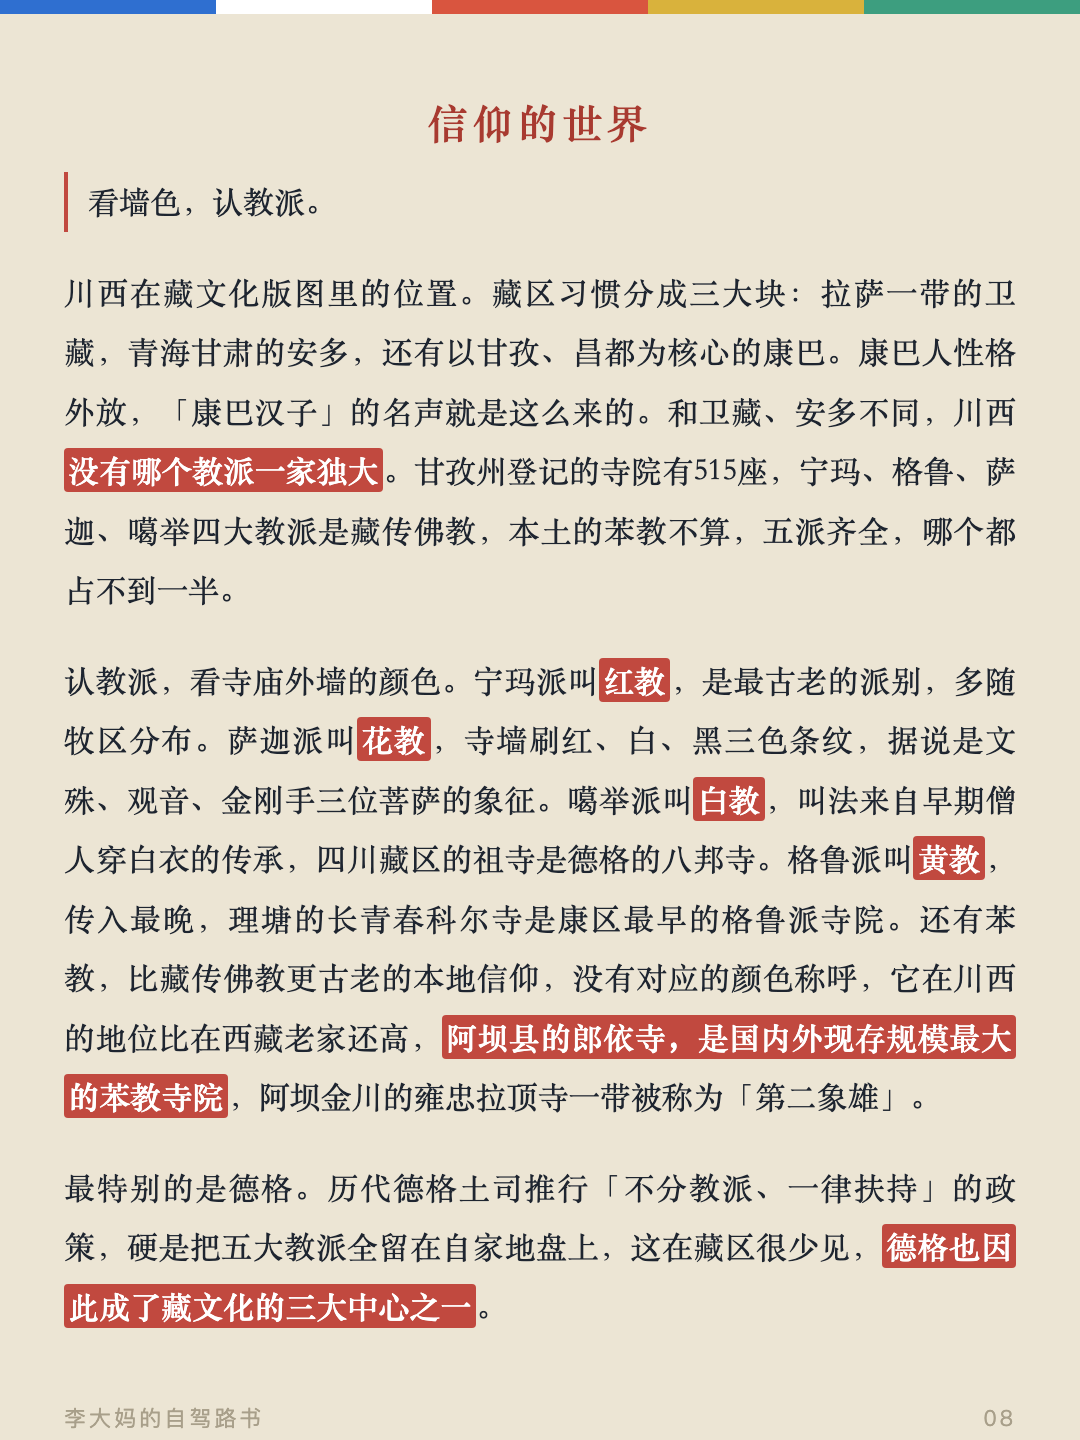
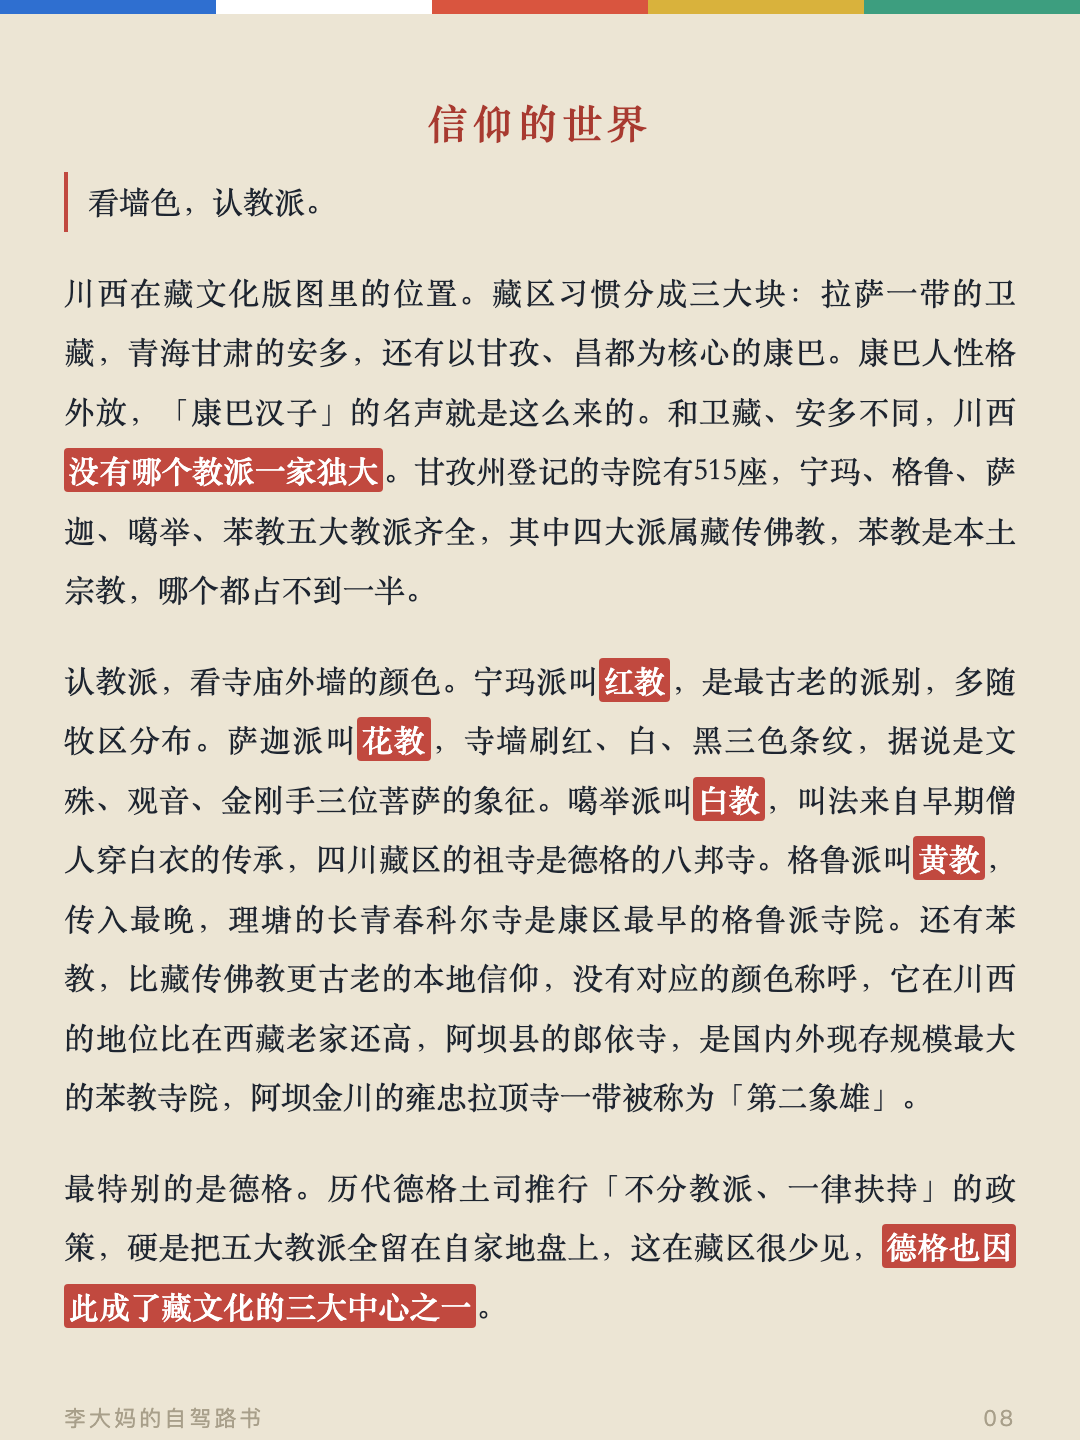
苯教段落措辞改顺+郎依寺句取消高亮

Changed region(s): [[0.0611, 0.6875, 0.9472, 0.7812], [0.0611, 0.3438, 0.9472, 0.4375]]

diff --git a/cards.html b/cards.html
@@ -137,7 +137,7 @@
 
 <div class="card" id="card7"><div class="flag" aria-hidden="true"><span style="background:var(--flag-blue)"></span><span style="background:var(--flag-white)"></span><span style="background:var(--flag-red)"></span><span style="background:var(--flag-yellow)"></span><span style="background:var(--flag-green)"></span></div><div class="card__inner"><h3>充电</h3><p>川西这两年变化快。2025年6月甘孜州18个公路养护站和14个快充站投运，理塘到稻城段充电桩最大间距125公里；318沿线超300个充电桩，快充占七成以上。密度从东往西递减：成都到康定每30到50公里一个快充；康定、新都桥、雅江、理塘每80到150公里；理塘往稻城亚丁、新都桥往塔公八美每150到200公里。冷嘎措、格聂、若尔盖穿越段还是盲区。实际体验要打折：约一成五的桩故障或被燃油车占位，节假日热门站排队可能超一小时。高原续航缩水约三四成。<strong>电量低于三成就找桩</strong>，进景区前在县城充到八成以上。查桩用特来电、国网e充电、星星充电的App，或高德的新能源模式。</p><h3>封路信息</h3><p>两类封路最常见：汛期6到8月塌方落石，抢修期间半幅放行或管制；冬季11月到次年3、4月冬管，比如九绵高速夜间20点到次日8点禁行，夹金山段整个冬天双向禁行，理小路冬天全段禁行。<strong>G317马尔康到观音桥段，自2025年11月红旗特大桥垮塌后一直中断</strong>，绕行走壤塘、阿坝、红原方向，约多3小时；官方便道工程预计2026年9月底至10月初通车。官方渠道：阿坝州政府官网阿坝路况专栏、四川发布和成都发布公众号、高速救援12122、报警96122。<strong>官方路况和高德，出发当天交叉核对</strong>。</p><div class="card__foot"><span>李大妈的自驾路书</span><span>07</span></div></div></div>
 
-<div class="card" id="card8"><div class="flag" aria-hidden="true"><span style="background:var(--flag-blue)"></span><span style="background:var(--flag-white)"></span><span style="background:var(--flag-red)"></span><span style="background:var(--flag-yellow)"></span><span style="background:var(--flag-green)"></span></div><div class="card__inner"><h2>信仰的世界</h2><p class="card__lead">看墙色，认教派。</p><p>川西在藏文化版图里的位置。藏区习惯分成三大块：拉萨一带的卫藏，青海甘肃的安多，还有以甘孜、昌都为核心的康巴。康巴人性格外放，「康巴汉子」的名声就是这么来的。和卫藏、安多不同，川西<strong>没有哪个教派一家独大</strong>。甘孜州登记的寺院有515座，宁玛、格鲁、萨迦、噶举四大教派是藏传佛教，本土的苯教不算，五派齐全，哪个都占不到一半。</p><p>认教派，看寺庙外墙的颜色。宁玛派叫<strong>红教</strong>，是最古老的派别，多随牧区分布。萨迦派叫<strong>花教</strong>，寺墙刷红、白、黑三色条纹，据说是文殊、观音、金刚手三位菩萨的象征。噶举派叫<strong>白教</strong>，叫法来自早期僧人穿白衣的传承，四川藏区的祖寺是德格的八邦寺。格鲁派叫<strong>黄教</strong>，传入最晚，理塘的长青春科尔寺是康区最早的格鲁派寺院。还有苯教，比藏传佛教更古老的本地信仰，没有对应的颜色称呼，它在川西的地位比在西藏老家还高，<strong>阿坝县的郎依寺，是国内外现存规模最大的苯教寺院</strong>，阿坝金川的雍忠拉顶寺一带被称为「第二象雄」。</p><p>最特别的是德格。历代德格土司推行「不分教派、一律扶持」的政策，硬是把五大教派全留在自家地盘上，这在藏区很少见，<strong>德格也因此成了藏文化的三大中心之一</strong>。</p><div class="card__foot"><span>李大妈的自驾路书</span><span>08</span></div></div></div>
+<div class="card" id="card8"><div class="flag" aria-hidden="true"><span style="background:var(--flag-blue)"></span><span style="background:var(--flag-white)"></span><span style="background:var(--flag-red)"></span><span style="background:var(--flag-yellow)"></span><span style="background:var(--flag-green)"></span></div><div class="card__inner"><h2>信仰的世界</h2><p class="card__lead">看墙色，认教派。</p><p>川西在藏文化版图里的位置。藏区习惯分成三大块：拉萨一带的卫藏，青海甘肃的安多，还有以甘孜、昌都为核心的康巴。康巴人性格外放，「康巴汉子」的名声就是这么来的。和卫藏、安多不同，川西<strong>没有哪个教派一家独大</strong>。甘孜州登记的寺院有515座，宁玛、格鲁、萨迦、噶举、苯教五大教派齐全，其中四大派属藏传佛教，苯教是本土宗教，哪个都占不到一半。</p><p>认教派，看寺庙外墙的颜色。宁玛派叫<strong>红教</strong>，是最古老的派别，多随牧区分布。萨迦派叫<strong>花教</strong>，寺墙刷红、白、黑三色条纹，据说是文殊、观音、金刚手三位菩萨的象征。噶举派叫<strong>白教</strong>，叫法来自早期僧人穿白衣的传承，四川藏区的祖寺是德格的八邦寺。格鲁派叫<strong>黄教</strong>，传入最晚，理塘的长青春科尔寺是康区最早的格鲁派寺院。还有苯教，比藏传佛教更古老的本地信仰，没有对应的颜色称呼，它在川西的地位比在西藏老家还高，阿坝县的郎依寺，是国内外现存规模最大的苯教寺院，阿坝金川的雍忠拉顶寺一带被称为「第二象雄」。</p><p>最特别的是德格。历代德格土司推行「不分教派、一律扶持」的政策，硬是把五大教派全留在自家地盘上，这在藏区很少见，<strong>德格也因此成了藏文化的三大中心之一</strong>。</p><div class="card__foot"><span>李大妈的自驾路书</span><span>08</span></div></div></div>
 
 <div class="card" id="card9"><div class="flag" aria-hidden="true"><span style="background:var(--flag-blue)"></span><span style="background:var(--flag-white)"></span><span style="background:var(--flag-red)"></span><span style="background:var(--flag-yellow)"></span><span style="background:var(--flag-green)"></span></div><div class="card__inner"><p>路边的符号，各有含义。经幡也叫风马旗，五种颜色对应蓝天、白云、红火、江河、大地，挂在山顶风口，<strong>藏人相信风吹动一次等于诵经一次</strong>。玛尼堆是刻了六字真言的石块堆，路人经过会念着真言添一块石头，不搬走当纪念品。白塔源于古印度的覆钵式佛塔，路过捡块石头放上去，或献条哈达许愿。德格佐钦寺的白塔是尼泊尔风格，方形塔顶四面画着佛眼，<strong>和加德满都的博达哈大佛塔同一形制</strong>，博达哈是全世界最大的覆钵塔。转经筒里装着经文，转一圈等于念诵一遍，藏人转经廊、转佛塔、转寺院都是这个逻辑。六字真言「唵嘛呢叭咪吽」是观世音菩萨的总持咒，被看作雪域佛法最根本的念诵。</p><p>和信仰打交道，有几条规矩：<strong>绕行一律顺时针，只有苯教是逆时针</strong>。磕长头是身敬、语敬、意敬三者合一，额头叩地的瞬间，心里同时念咒、观想，这是他们能磕几千公里的原因。煨桑是烧香柏枝，敬献给神佛的香火，也是祈愿的仪式。献哈达要看对象：白色最普遍，黄色献给活佛和高僧，五彩哈达被视为菩萨的衣裳，只在隆重场合用。<strong>哈达只递到对方手里，不能挂脖子上，只有长辈给晚辈才往脖子上搭</strong>。天葬是藏人把遗体布施给神鹰，被认为是最高的舍身布施，<strong>全程严禁围观、拍照，当地有明文规定，连打听都不要</strong>。另有几条硬规矩：<strong>不摸别人的头，佛像、唐卡、经书不指</strong>，非要指就五指并拢、手心朝上，不进人家供奉的佛堂，不取献给塔上的供品，过门槛不踩。</p><div class="card__foot"><span>李大妈的自驾路书</span><span>09</span></div></div></div>
 

diff --git a/index.html b/index.html
@@ -262,8 +262,8 @@
     <section class="part" id="faith">
       <div class="part__head"><span class="part__no" aria-hidden="true">四</span><h2>信仰的世界</h2></div>
       <p class="part__lead">看墙色，认教派。</p>
-      <p>川西在藏文化版图里的位置。藏区习惯分成三大块：拉萨一带的卫藏，青海甘肃的安多，还有以甘孜、昌都为核心的康巴。康巴人性格外放，「康巴汉子」的名声就是这么来的。和卫藏、安多不同，川西<strong>没有哪个教派一家独大</strong>。甘孜州登记的寺院有515座，宁玛、格鲁、萨迦、噶举四大教派是藏传佛教，本土的苯教不算，五派齐全，哪个都占不到一半。</p>
-      <p>认教派，看寺庙外墙的颜色。宁玛派叫<strong>红教</strong>，是最古老的派别，多随牧区分布。萨迦派叫<strong>花教</strong>，寺墙刷红、白、黑三色条纹，据说是文殊、观音、金刚手三位菩萨的象征。噶举派叫<strong>白教</strong>，叫法来自早期僧人穿白衣的传承，四川藏区的祖寺是德格的八邦寺。格鲁派叫<strong>黄教</strong>，传入最晚，理塘的长青春科尔寺是康区最早的格鲁派寺院。还有苯教，比藏传佛教更古老的本地信仰，没有对应的颜色称呼，它在川西的地位比在西藏老家还高，<strong>阿坝县的郎依寺，是国内外现存规模最大的苯教寺院</strong>，阿坝金川的雍忠拉顶寺一带被称为「第二象雄」。</p>
+      <p>川西在藏文化版图里的位置。藏区习惯分成三大块：拉萨一带的卫藏，青海甘肃的安多，还有以甘孜、昌都为核心的康巴。康巴人性格外放，「康巴汉子」的名声就是这么来的。和卫藏、安多不同，川西<strong>没有哪个教派一家独大</strong>。甘孜州登记的寺院有515座，宁玛、格鲁、萨迦、噶举、苯教五大教派齐全，其中四大派属藏传佛教，苯教是本土宗教，哪个都占不到一半。</p>
+      <p>认教派，看寺庙外墙的颜色。宁玛派叫<strong>红教</strong>，是最古老的派别，多随牧区分布。萨迦派叫<strong>花教</strong>，寺墙刷红、白、黑三色条纹，据说是文殊、观音、金刚手三位菩萨的象征。噶举派叫<strong>白教</strong>，叫法来自早期僧人穿白衣的传承，四川藏区的祖寺是德格的八邦寺。格鲁派叫<strong>黄教</strong>，传入最晚，理塘的长青春科尔寺是康区最早的格鲁派寺院。还有苯教，比藏传佛教更古老的本地信仰，没有对应的颜色称呼，它在川西的地位比在西藏老家还高，阿坝县的郎依寺，是国内外现存规模最大的苯教寺院，阿坝金川的雍忠拉顶寺一带被称为「第二象雄」。</p>
       <p>最特别的是德格。历代德格土司推行「不分教派、一律扶持」的政策，硬是把五大教派全留在自家地盘上，这在藏区很少见，<strong>德格也因此成了藏文化的三大中心之一</strong>。</p>
       <p>路边的符号，各有含义。经幡也叫风马旗，五种颜色对应蓝天、白云、红火、江河、大地，挂在山顶风口，<strong>藏人相信风吹动一次等于诵经一次</strong>。玛尼堆是刻了六字真言的石块堆，路人经过会念着真言添一块石头，不搬走当纪念品。白塔源于古印度的覆钵式佛塔，路过捡块石头放上去，或献条哈达许愿。德格佐钦寺的白塔是尼泊尔风格，方形塔顶四面画着佛眼，<strong>和加德满都的博达哈大佛塔同一形制</strong>，博达哈是全世界最大的覆钵塔。转经筒里装着经文，转一圈等于念诵一遍，藏人转经廊、转佛塔、转寺院都是这个逻辑。六字真言「唵嘛呢叭咪吽」是观世音菩萨的总持咒，被看作雪域佛法最根本的念诵。</p>
       <p>和信仰打交道，有几条规矩：<strong>绕行一律顺时针，只有苯教是逆时针</strong>。磕长头是身敬、语敬、意敬三者合一，额头叩地的瞬间，心里同时念咒、观想，这是他们能磕几千公里的原因。煨桑是烧香柏枝，敬献给神佛的香火，也是祈愿的仪式。献哈达要看对象：白色最普遍，黄色献给活佛和高僧，五彩哈达被视为菩萨的衣裳，只在隆重场合用。<strong>哈达只递到对方手里，不能挂脖子上，只有长辈给晚辈才往脖子上搭</strong>。天葬是藏人把遗体布施给神鹰，被认为是最高的舍身布施，<strong>全程严禁围观、拍照，当地有明文规定，连打听都不要</strong>。另有几条硬规矩：<strong>不摸别人的头，佛像、唐卡、经书不指</strong>，非要指就五指并拢、手心朝上，不进人家供奉的佛堂，不取献给塔上的供品，过门槛不踩。</p>

diff --git a/gen_cards.py b/gen_cards.py
@@ -60,8 +60,8 @@ BODY_STREAM = [
   ('p', '两类封路最常见：汛期6到8月塌方落石，抢修期间半幅放行或管制；冬季11月到次年3、4月冬管，比如九绵高速夜间20点到次日8点禁行，夹金山段整个冬天双向禁行，理小路冬天全段禁行。<strong>G317马尔康到观音桥段，自2025年11月红旗特大桥垮塌后一直中断</strong>，绕行走壤塘、阿坝、红原方向，约多3小时；官方便道工程预计2026年9月底至10月初通车。官方渠道：阿坝州政府官网阿坝路况专栏、四川发布和成都发布公众号、高速救援12122、报警96122。<strong>官方路况和高德，出发当天交叉核对</strong>。'),
   ('h2', '信仰的世界'),
   ('lead', '看墙色，认教派。'),
-  ('p', '川西在藏文化版图里的位置。藏区习惯分成三大块：拉萨一带的卫藏，青海甘肃的安多，还有以甘孜、昌都为核心的康巴。康巴人性格外放，「康巴汉子」的名声就是这么来的。和卫藏、安多不同，川西<strong>没有哪个教派一家独大</strong>。甘孜州登记的寺院有515座，宁玛、格鲁、萨迦、噶举四大教派是藏传佛教，本土的苯教不算，五派齐全，哪个都占不到一半。'),
-  ('p', '认教派，看寺庙外墙的颜色。宁玛派叫<strong>红教</strong>，是最古老的派别，多随牧区分布。萨迦派叫<strong>花教</strong>，寺墙刷红、白、黑三色条纹，据说是文殊、观音、金刚手三位菩萨的象征。噶举派叫<strong>白教</strong>，叫法来自早期僧人穿白衣的传承，四川藏区的祖寺是德格的八邦寺。格鲁派叫<strong>黄教</strong>，传入最晚，理塘的长青春科尔寺是康区最早的格鲁派寺院。还有苯教，比藏传佛教更古老的本地信仰，没有对应的颜色称呼，它在川西的地位比在西藏老家还高，<strong>阿坝县的郎依寺，是国内外现存规模最大的苯教寺院</strong>，阿坝金川的雍忠拉顶寺一带被称为「第二象雄」。'),
+  ('p', '川西在藏文化版图里的位置。藏区习惯分成三大块：拉萨一带的卫藏，青海甘肃的安多，还有以甘孜、昌都为核心的康巴。康巴人性格外放，「康巴汉子」的名声就是这么来的。和卫藏、安多不同，川西<strong>没有哪个教派一家独大</strong>。甘孜州登记的寺院有515座，宁玛、格鲁、萨迦、噶举、苯教五大教派齐全，其中四大派属藏传佛教，苯教是本土宗教，哪个都占不到一半。'),
+  ('p', '认教派，看寺庙外墙的颜色。宁玛派叫<strong>红教</strong>，是最古老的派别，多随牧区分布。萨迦派叫<strong>花教</strong>，寺墙刷红、白、黑三色条纹，据说是文殊、观音、金刚手三位菩萨的象征。噶举派叫<strong>白教</strong>，叫法来自早期僧人穿白衣的传承，四川藏区的祖寺是德格的八邦寺。格鲁派叫<strong>黄教</strong>，传入最晚，理塘的长青春科尔寺是康区最早的格鲁派寺院。还有苯教，比藏传佛教更古老的本地信仰，没有对应的颜色称呼，它在川西的地位比在西藏老家还高，阿坝县的郎依寺，是国内外现存规模最大的苯教寺院，阿坝金川的雍忠拉顶寺一带被称为「第二象雄」。'),
   ('p', '最特别的是德格。历代德格土司推行「不分教派、一律扶持」的政策，硬是把五大教派全留在自家地盘上，这在藏区很少见，<strong>德格也因此成了藏文化的三大中心之一</strong>。'),
   ('p', '路边的符号，各有含义。经幡也叫风马旗，五种颜色对应蓝天、白云、红火、江河、大地，挂在山顶风口，<strong>藏人相信风吹动一次等于诵经一次</strong>。玛尼堆是刻了六字真言的石块堆，路人经过会念着真言添一块石头，不搬走当纪念品。白塔源于古印度的覆钵式佛塔，路过捡块石头放上去，或献条哈达许愿。德格佐钦寺的白塔是尼泊尔风格，方形塔顶四面画着佛眼，<strong>和加德满都的博达哈大佛塔同一形制</strong>，博达哈是全世界最大的覆钵塔。转经筒里装着经文，转一圈等于念诵一遍，藏人转经廊、转佛塔、转寺院都是这个逻辑。六字真言「唵嘛呢叭咪吽」是观世音菩萨的总持咒，被看作雪域佛法最根本的念诵。'),
   ('p', '和信仰打交道，有几条规矩：<strong>绕行一律顺时针，只有苯教是逆时针</strong>。磕长头是身敬、语敬、意敬三者合一，额头叩地的瞬间，心里同时念咒、观想，这是他们能磕几千公里的原因。煨桑是烧香柏枝，敬献给神佛的香火，也是祈愿的仪式。献哈达要看对象：白色最普遍，黄色献给活佛和高僧，五彩哈达被视为菩萨的衣裳，只在隆重场合用。<strong>哈达只递到对方手里，不能挂脖子上，只有长辈给晚辈才往脖子上搭</strong>。天葬是藏人把遗体布施给神鹰，被认为是最高的舍身布施，<strong>全程严禁围观、拍照，当地有明文规定，连打听都不要</strong>。另有几条硬规矩：<strong>不摸别人的头，佛像、唐卡、经书不指</strong>，非要指就五指并拢、手心朝上，不进人家供奉的佛堂，不取献给塔上的供品，过门槛不踩。'),
